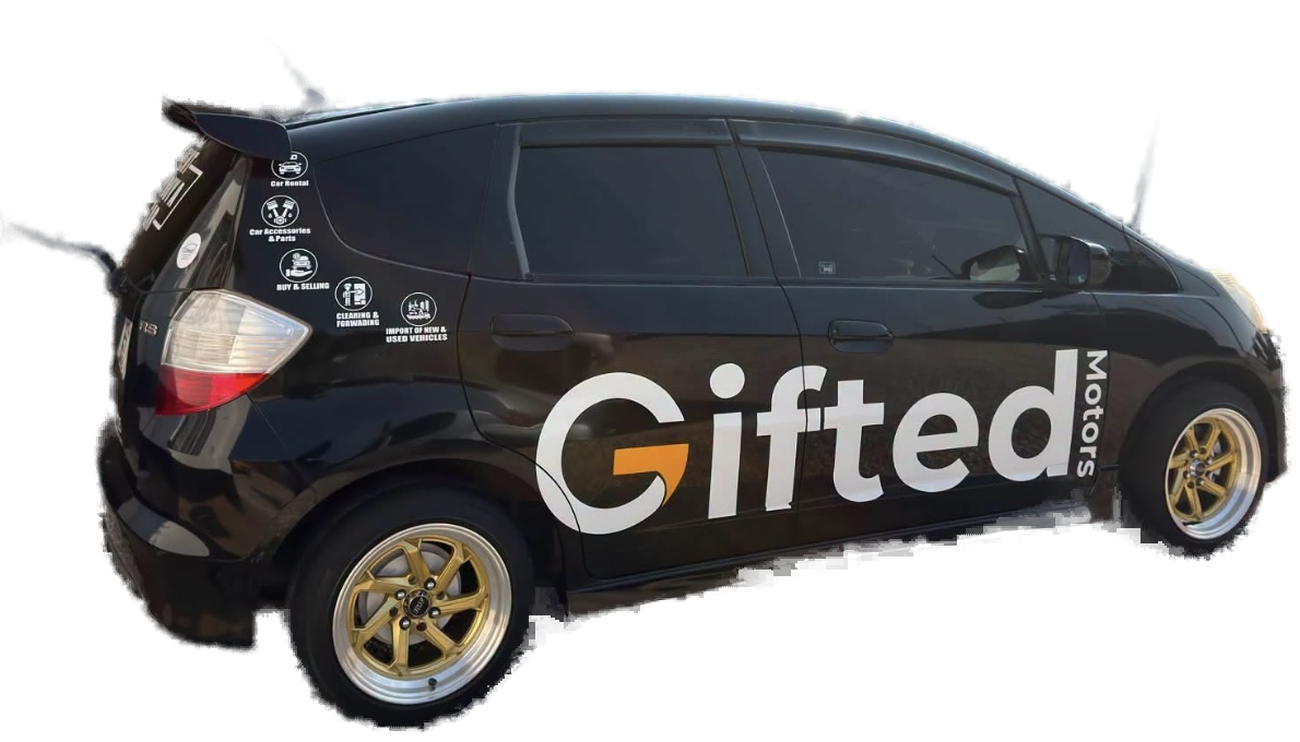
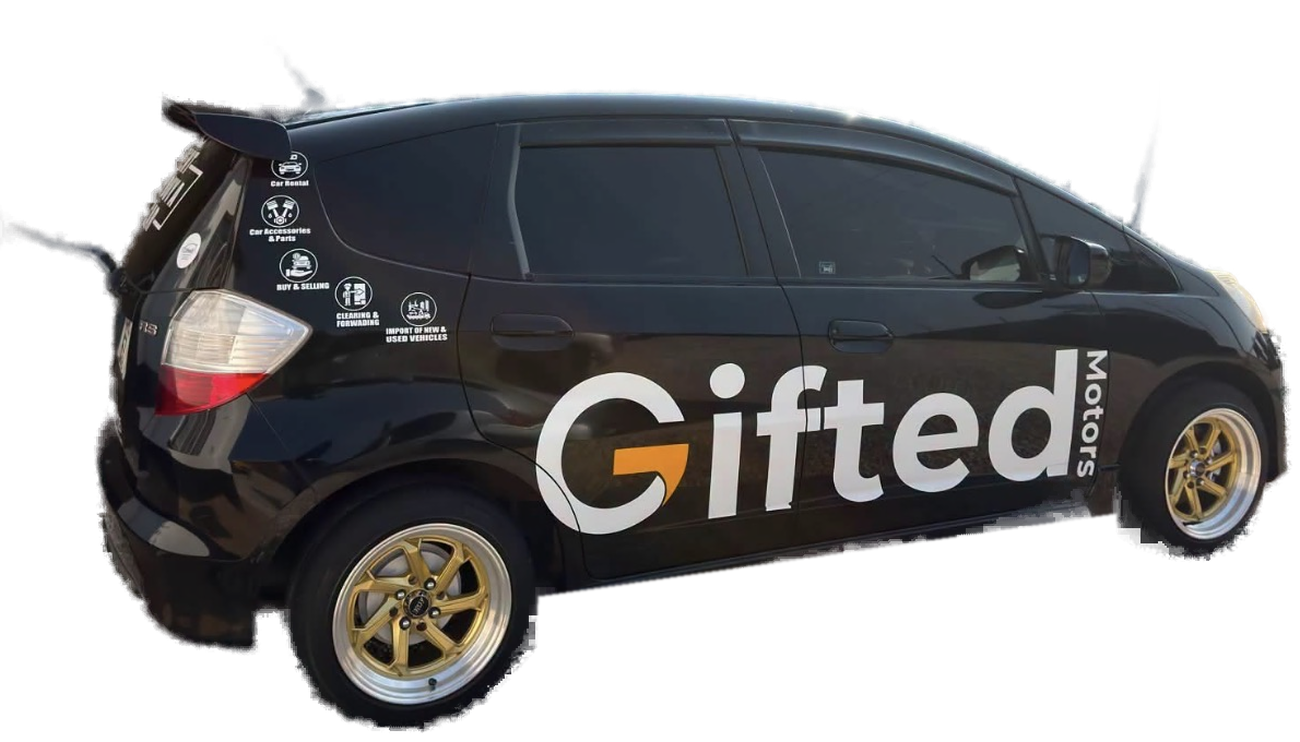
Clean cut-out edge under car, add soft ground shadow
Claude-Session: https://claude.ai/code/session_014oSyKbw2dV9nR8NShVVX5g

Changed region(s): [[0.4, 0.7129, 0.7692, 0.8369], [0.7692, 0.6819, 0.8615, 0.7129]]

diff --git a/services.html b/services.html
@@ -20,7 +20,7 @@
 <link rel="preconnect" href="https://fonts.googleapis.com">
 <link rel="preconnect" href="https://fonts.gstatic.com" crossorigin>
 <link href="https://fonts.googleapis.com/css2?family=Poppins:wght@400;500;600;700;800&display=swap" rel="stylesheet">
-<link rel="stylesheet" href="styles.css?v=202611071323">
+<link rel="stylesheet" href="styles.css?v=202611071327">
 </head>
 <body>
 <div id="site-header"></div>
@@ -30,7 +30,7 @@
 <section id="soon" class="sec alt"><div class="wrap"><p class="eyebrow dark">Coming soon</p><h2>On the way</h2><div class="grid three" id="soonlist"></div></div></section>
 </main>
 <div id="site-footer"></div>
-<script src="site-data.js?v=202611071323"></script>
-<script src="site.js?v=202611071323"></script>
+<script src="site-data.js?v=202611071327"></script>
+<script src="site.js?v=202611071327"></script>
 </body>
 </html>

diff --git a/gallery.html b/gallery.html
@@ -20,7 +20,7 @@
 <link rel="preconnect" href="https://fonts.googleapis.com">
 <link rel="preconnect" href="https://fonts.gstatic.com" crossorigin>
 <link href="https://fonts.googleapis.com/css2?family=Poppins:wght@400;500;600;700;800&display=swap" rel="stylesheet">
-<link rel="stylesheet" href="styles.css?v=202611071323">
+<link rel="stylesheet" href="styles.css?v=202611071327">
 </head>
 <body>
 <div id="site-header"></div>
@@ -32,7 +32,7 @@
 <section class="sec alt"><div class="wrap"><p class="eyebrow dark">Photos</p><h2>On the road</h2><div class="phgrid" id="photos"></div></div></section>
 </main>
 <div id="site-footer"></div>
-<script src="site-data.js?v=202611071323"></script>
-<script src="site.js?v=202611071323"></script>
+<script src="site-data.js?v=202611071327"></script>
+<script src="site.js?v=202611071327"></script>
 </body>
 </html>

diff --git a/book.html b/book.html
@@ -20,7 +20,7 @@
 <link rel="preconnect" href="https://fonts.googleapis.com">
 <link rel="preconnect" href="https://fonts.gstatic.com" crossorigin>
 <link href="https://fonts.googleapis.com/css2?family=Poppins:wght@400;500;600;700;800&display=swap" rel="stylesheet">
-<link rel="stylesheet" href="styles.css?v=202611071323">
+<link rel="stylesheet" href="styles.css?v=202611071327">
 </head>
 <body>
 <div id="site-header"></div>
@@ -61,7 +61,7 @@
 </div></section>
 </main>
 <div id="site-footer"></div>
-<script src="site-data.js?v=202611071323"></script>
-<script src="site.js?v=202611071323"></script>
+<script src="site-data.js?v=202611071327"></script>
+<script src="site.js?v=202611071327"></script>
 </body>
 </html>

diff --git a/cars.html b/cars.html
@@ -20,7 +20,7 @@
 <link rel="preconnect" href="https://fonts.googleapis.com">
 <link rel="preconnect" href="https://fonts.gstatic.com" crossorigin>
 <link href="https://fonts.googleapis.com/css2?family=Poppins:wght@400;500;600;700;800&display=swap" rel="stylesheet">
-<link rel="stylesheet" href="styles.css?v=202611071323">
+<link rel="stylesheet" href="styles.css?v=202611071327">
 </head>
 <body>
 <div id="site-header"></div>
@@ -36,7 +36,7 @@
 </div></section>
 </main>
 <div id="site-footer"></div>
-<script src="site-data.js?v=202611071323"></script>
-<script src="site.js?v=202611071323"></script>
+<script src="site-data.js?v=202611071327"></script>
+<script src="site.js?v=202611071327"></script>
 </body>
 </html>

diff --git a/contact.html b/contact.html
@@ -20,7 +20,7 @@
 <link rel="preconnect" href="https://fonts.googleapis.com">
 <link rel="preconnect" href="https://fonts.gstatic.com" crossorigin>
 <link href="https://fonts.googleapis.com/css2?family=Poppins:wght@400;500;600;700;800&display=swap" rel="stylesheet">
-<link rel="stylesheet" href="styles.css?v=202611071323">
+<link rel="stylesheet" href="styles.css?v=202611071327">
 </head>
 <body>
 <div id="site-header"></div>
@@ -32,7 +32,7 @@
 </div></section>
 </main>
 <div id="site-footer"></div>
-<script src="site-data.js?v=202611071323"></script>
-<script src="site.js?v=202611071323"></script>
+<script src="site-data.js?v=202611071327"></script>
+<script src="site.js?v=202611071327"></script>
 </body>
 </html>

diff --git a/index.html b/index.html
@@ -20,7 +20,7 @@
 <link rel="preconnect" href="https://fonts.googleapis.com">
 <link rel="preconnect" href="https://fonts.gstatic.com" crossorigin>
 <link href="https://fonts.googleapis.com/css2?family=Poppins:wght@400;500;600;700;800&display=swap" rel="stylesheet">
-<link rel="stylesheet" href="styles.css?v=202611071323">
+<link rel="stylesheet" href="styles.css?v=202611071327">
 </head>
 <body>
 <div id="site-header"></div>
@@ -72,7 +72,7 @@
 </div></section>
 </main>
 <div id="site-footer"></div>
-<script src="site-data.js?v=202611071323"></script>
-<script src="site.js?v=202611071323"></script>
+<script src="site-data.js?v=202611071327"></script>
+<script src="site.js?v=202611071327"></script>
 </body>
 </html>

diff --git a/pay.html b/pay.html
@@ -20,7 +20,7 @@
 <link rel="preconnect" href="https://fonts.googleapis.com">
 <link rel="preconnect" href="https://fonts.gstatic.com" crossorigin>
 <link href="https://fonts.googleapis.com/css2?family=Poppins:wght@400;500;600;700;800&display=swap" rel="stylesheet">
-<link rel="stylesheet" href="styles.css?v=202611071323">
+<link rel="stylesheet" href="styles.css?v=202611071327">
 </head>
 <body>
 <div id="site-header"></div>
@@ -46,7 +46,7 @@
 </div></section>
 </main>
 <div id="site-footer"></div>
-<script src="site-data.js?v=202611071323"></script>
-<script src="site.js?v=202611071323"></script>
+<script src="site-data.js?v=202611071327"></script>
+<script src="site.js?v=202611071327"></script>
 </body>
 </html>

diff --git a/reviews.html b/reviews.html
@@ -20,7 +20,7 @@
 <link rel="preconnect" href="https://fonts.googleapis.com">
 <link rel="preconnect" href="https://fonts.gstatic.com" crossorigin>
 <link href="https://fonts.googleapis.com/css2?family=Poppins:wght@400;500;600;700;800&display=swap" rel="stylesheet">
-<link rel="stylesheet" href="styles.css?v=202611071323">
+<link rel="stylesheet" href="styles.css?v=202611071327">
 </head>
 <body>
 <div id="site-header"></div>
@@ -49,7 +49,7 @@
 </div></section>
 </main>
 <div id="site-footer"></div>
-<script src="site-data.js?v=202611071323"></script>
-<script src="site.js?v=202611071323"></script>
+<script src="site-data.js?v=202611071327"></script>
+<script src="site.js?v=202611071327"></script>
 </body>
 </html>

diff --git a/styles.css b/styles.css
@@ -246,3 +246,6 @@ html.leaving .gocar .wh{animation:gospin .4s linear infinite}
 @keyframes godrive{to{transform:translateX(calc(100vw + 30px))}}
 @keyframes gospin{to{transform:rotate(360deg)}}
 @media(prefers-reduced-motion:reduce){#splash{animation-duration:.01s;animation-delay:.3s}body{animation:none}.splash-in,.splash-bar,.splash-tag{animation:none;opacity:1}.splash-bar{width:200px}}
+
+.hero-stage::after{content:"";position:absolute;z-index:0;left:6%;right:6%;bottom:1%;height:7%;border-radius:50%;background:rgba(5,12,30,.45);filter:blur(10px)}
+.hero picture{z-index:1}
